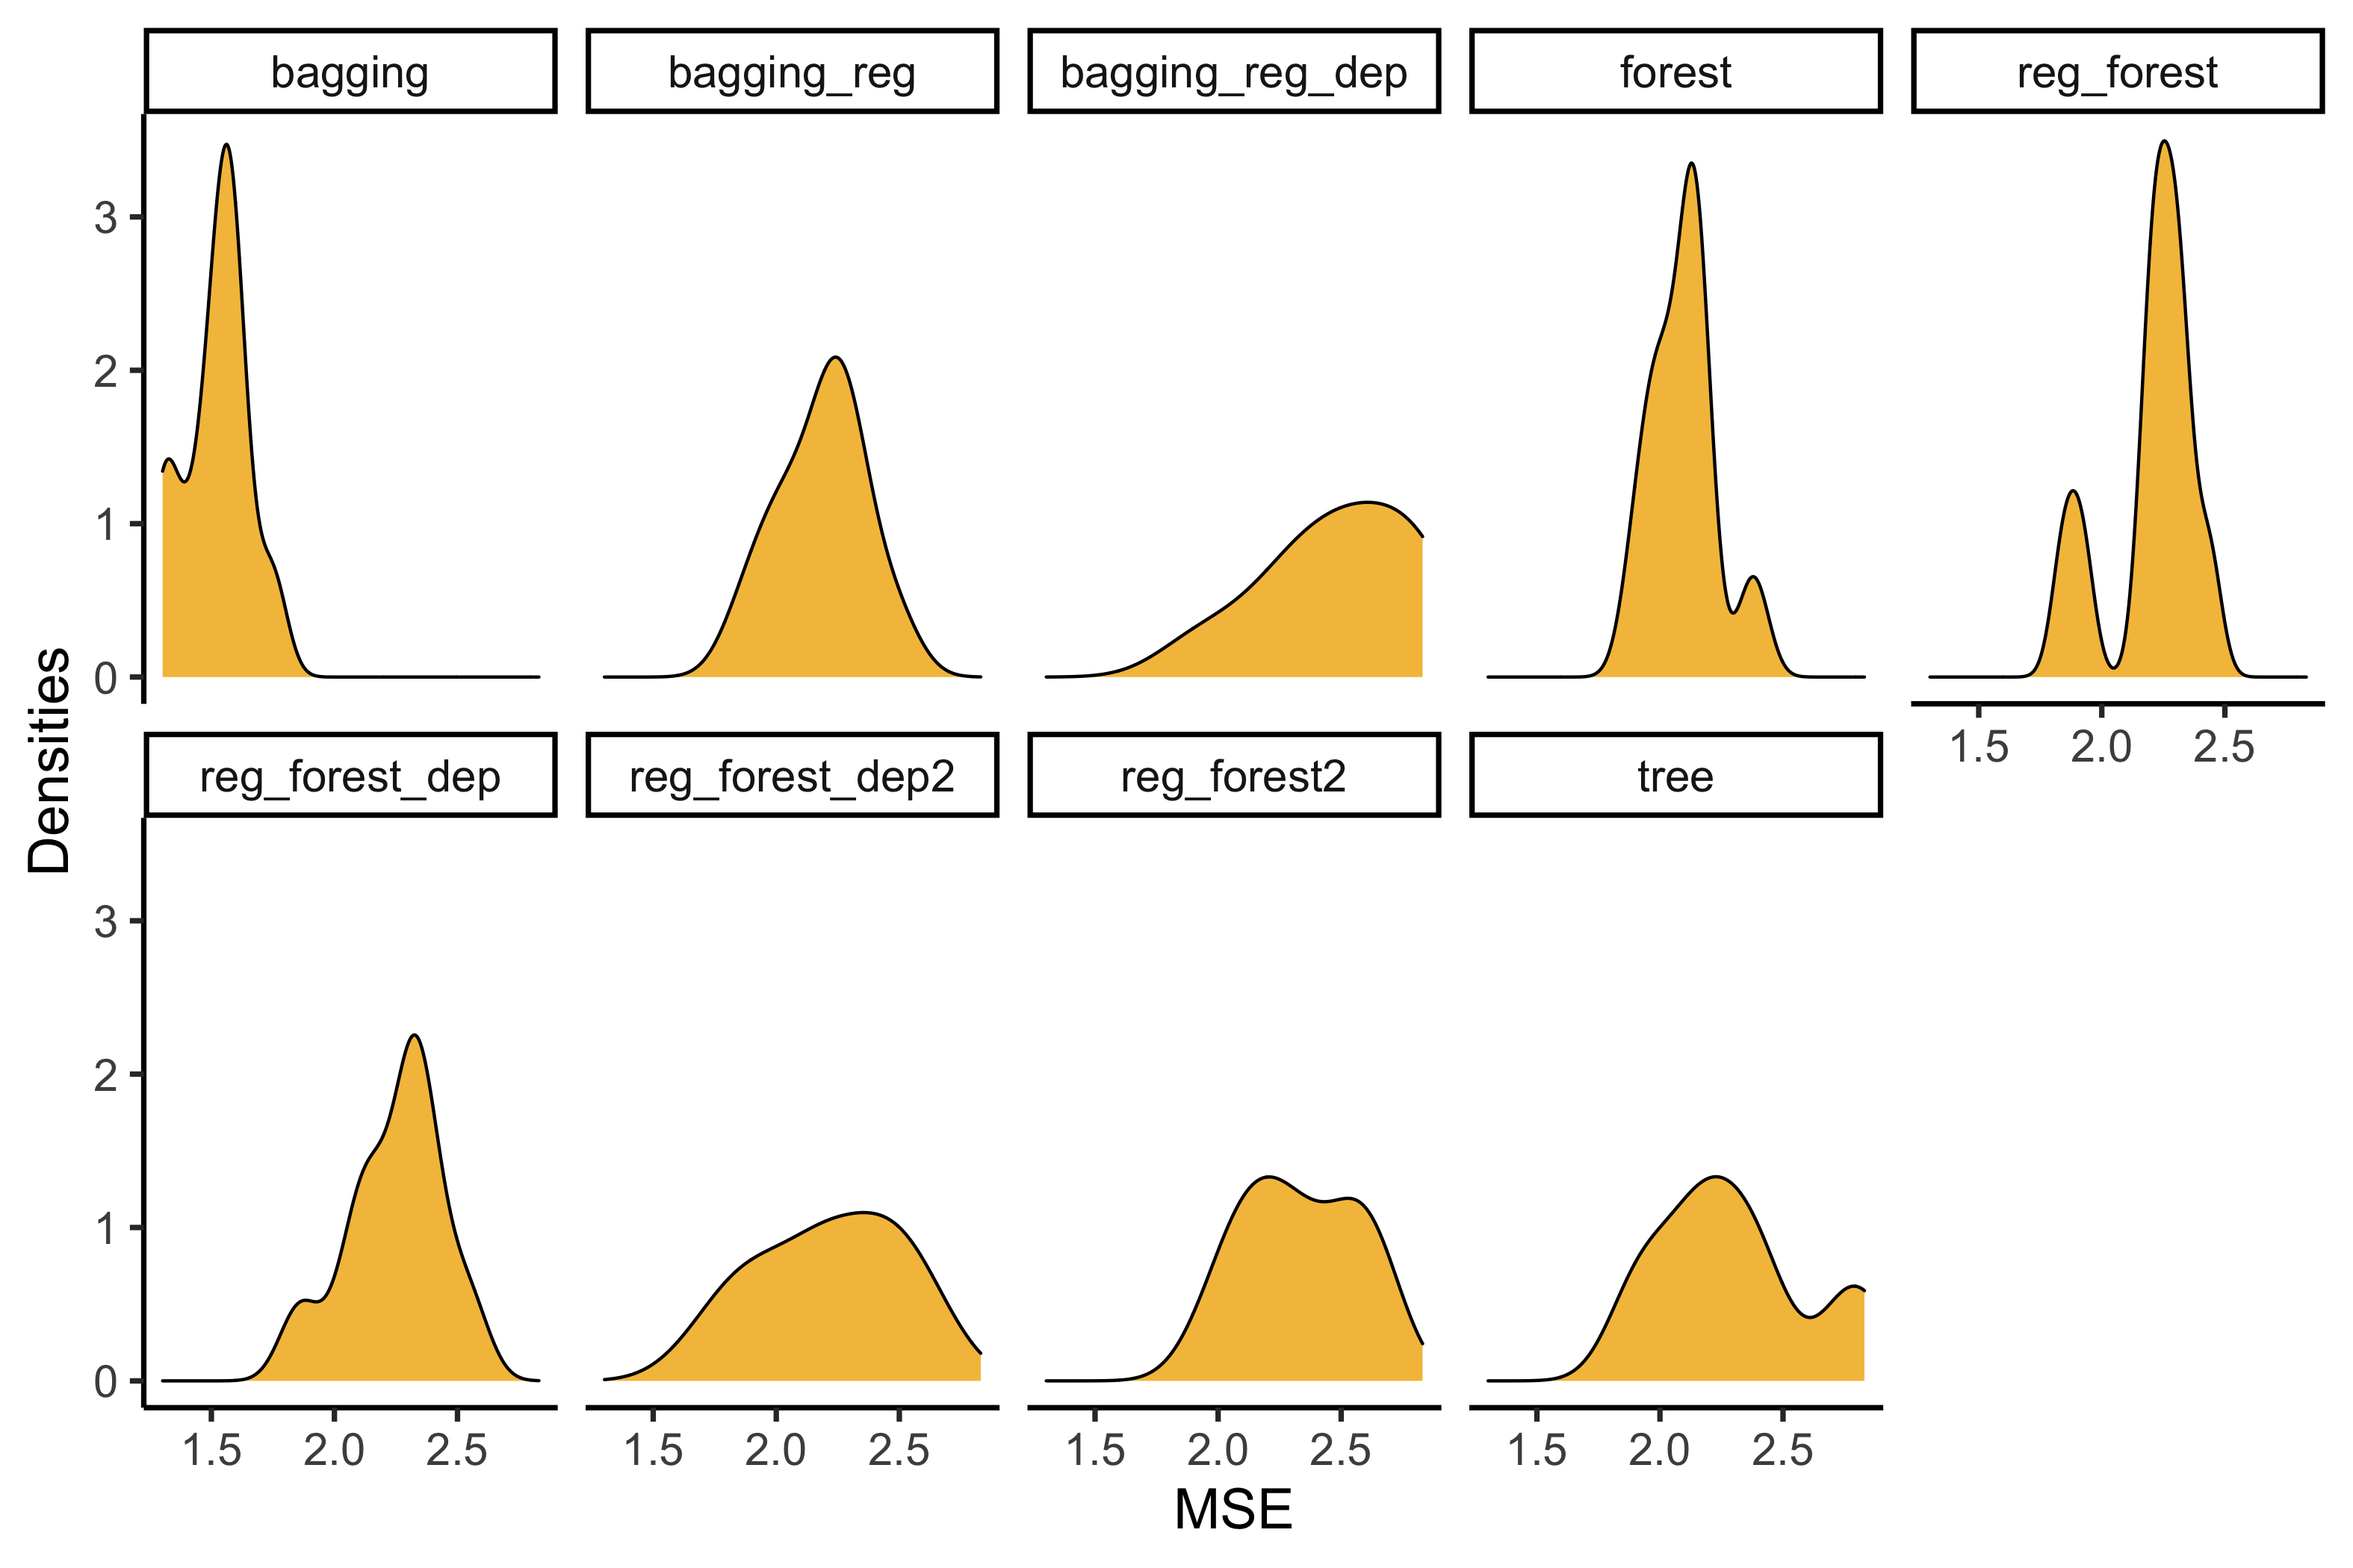
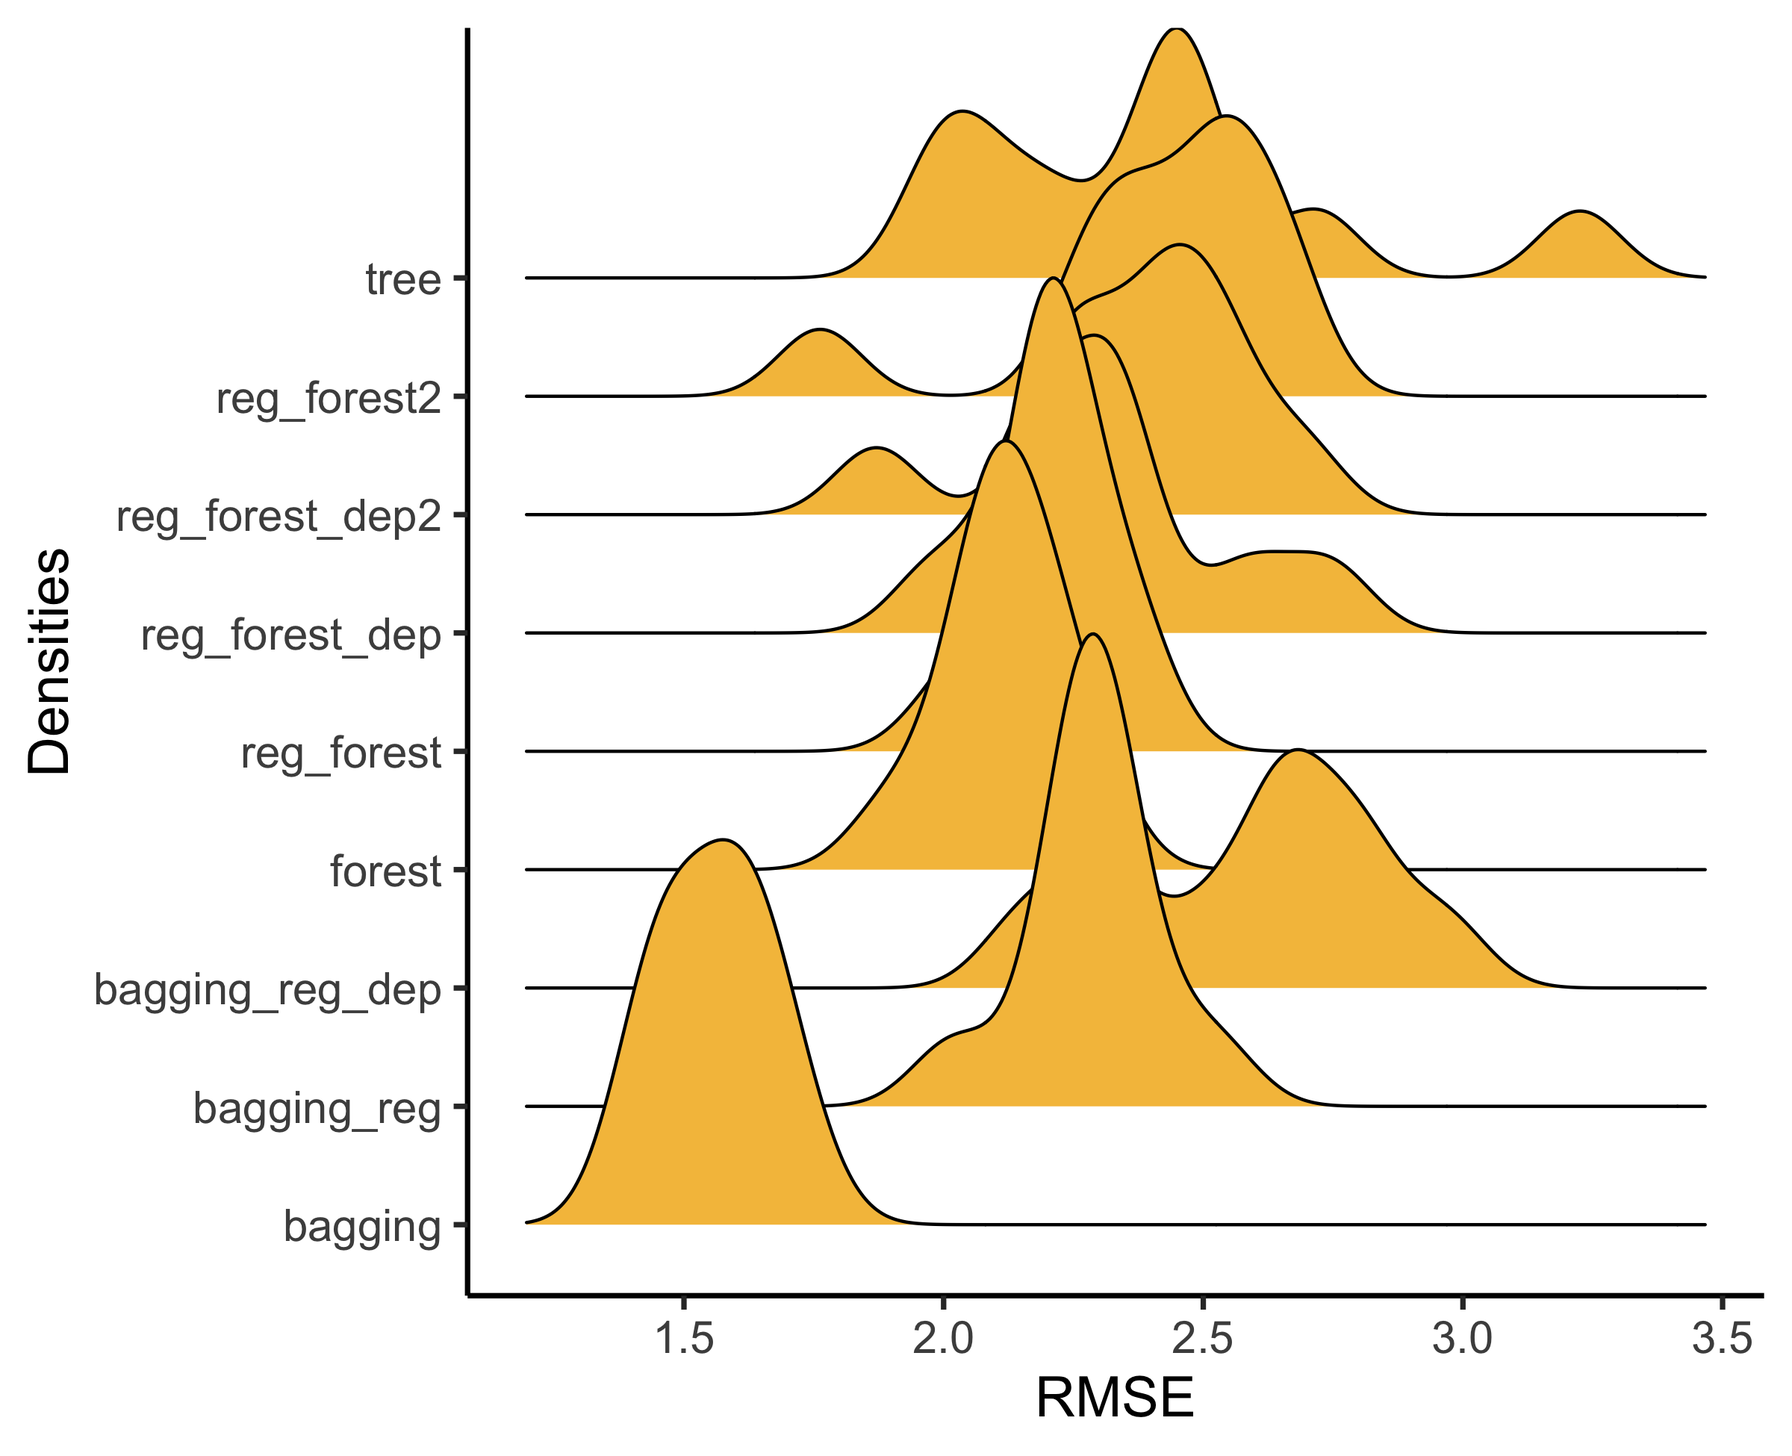
rladies-helsinki talk

Changed region(s): [[0.0, 0.0, 1.0, 0.9846], [0.0312, 0.8615, 0.0625, 0.8923], [0.0312, 0.7692, 0.0625, 0.8]]

diff --git a/slides/rladies-helsinki/talk.html b/slides/rladies-helsinki/talk.html
@@ -87,6 +87,7 @@ class: inverse, middle
 ---
 class: middle
 
+
 # Summary
 
 - Tree-based models
@@ -98,7 +99,13 @@ class: middle
   - Building a modelling function
   - Training all models 
   - Evaluating the models
+  
+#### Find this talk at: http://brunaw.com/slides/rladies-helsinki/talk.html
+
+#### GitHub: https://github.com/brunaw/tidyverse-for-ml
+
 ---
+
 
 # Motivation
 
@@ -167,9 +174,9 @@ the greatest reduction in the variance of `\(Y\)`.
 
 # Gain penalization for tree regularization
 
-- Firstly presented in (Deng and Runger, 2013):
+- Firstly presented in Deng and Runger (2013):
   - The authors **penalise the gain (RSS reduction)** of each 
-  variable, for each tree when building a mdoel
+  variable, for each tree when building a model
 
 - The main idea is to weigh the gain of each variable, with
 
@@ -188,7 +195,7 @@ More details:  *Wundervald, B, A. Parnell, and K. Domijan (2020). “Generalizin
 ---
 ### Modelling: tree-based methods
 
-  - Trees (CART): 1 tree, `\(\texttt{mtry}\)` = all available variables
+  - Trees (CART): 1 tree, `\(\texttt{mtry}\)` = # all available variables
   
   - *Bagging*: average of many trees, `\(\texttt{mtry}\)` = # all available variables
   
@@ -199,7 +206,7 @@ More details:  *Wundervald, B, A. Parnell, and K. Domijan (2020). “Generalizin
   same as above, but with an "extra" penalization when a new variable
  is to be picked in a deep node of a tree:
  
-`$$\begin{equation} Gain_{R}(\mathbf{X}_{i}, t, \mathbb{T}) =  \begin{cases} \lambda_{i}^{d_{\mathbb{T}}} \Delta(i, t), \thinspace i \notin \mathbb{U} \text{ and} \\ \Delta(i, t), \thinspace i \in  \mathbb{U}, \end{cases} \end{equation}$$`
+`$$\begin{equation} Gain_{R}(\mathbf{X}_{i}, t, \mathbb{T}) =  \begin{cases} \lambda_{i}^{d_{\mathbb{T}}} \Delta(i, t), \thinspace i \notin F \text{ and} \\ \Delta(i, t), \thinspace i \in  F, \end{cases} \end{equation}$$`
 
 where `\(d_{\mathbb{T}}\)` is the current depth of the `\(\mathbb{T}\)` tree, 
 `\(\mathbb{T} = (1, \dots, \texttt{ntree})\)`, for the `\(i\)`-th feature.
@@ -227,7 +234,7 @@ for that
 
 - 50 Predictors:
   - Current date  
-  - the 14-day lagged ridership at this and other stations (units: thousands of rides/day)
+  - The 14-day lagged ridership at this and other stations (units: thousands of rides/day)
   - Weather information
   - Sport teams schedules
   - +
@@ -247,7 +254,8 @@ class: middle
 ```{r
 library(tidyverse)
 library(tidymodels)
-library(ranger)
+library(ranger) # for tree-based models
+
 data &lt;- dials::Chicago
 
 data %&gt;%  
@@ -319,13 +327,21 @@ data_tibble &lt;- rep(list(data), 10) %&gt;%
 ```{r
 models &lt;- list(
  tree = list(mtry = ncol(data) - 1, trees = 1, reg.factor = 1, depth = FALSE),
+ 
  bagging = list(mtry = ncol(data) - 1, trees = 100, reg.factor = 1, depth = FALSE), 
+ 
  bagging_reg = list(mtry = ncol(data) - 1, trees = 100, reg.factor = 0.7, depth = FALSE),
+ 
  bagging_reg_dep = list(mtry = ncol(data) - 1, trees = 100, reg.factor = 0.7, depth = TRUE), 
+ 
  forest = list(mtry = sqrt(ncol(data) - 1), trees = 100, reg.factor = 1, depth = FALSE),
+ 
  reg_forest =  list(mtry = (ncol(data) - 1)/2, trees = 100, reg.factor = 0.7, depth = FALSE),
+ 
  reg_forest_dep =  list(mtry = (ncol(data) - 1)/2, trees = 100, reg.factor = 0.7, depth = TRUE),
+ 
  reg_forest2 =  list(mtry = (ncol(data) - 1)/2, trees = 100, reg.factor = 0.2, depth = FALSE), 
+ 
  reg_forest_dep2 = list(mtry = (ncol(data)-1)/2, trees = 100, reg.factor = 0.2, depth = TRUE)) %&gt;% 
  enframe(name = 'model', value = 'parameters')
 ```
@@ -334,7 +350,11 @@ models &lt;- list(
 
 
 
-.pull-left[
+
+---
+
+class: middle
+
 Adding the models to our main `tibble`:
 
 ```{r
@@ -342,16 +362,11 @@ data_tibble &lt;- data_tibble %&gt;%
 *  crossing(models) %&gt;% 
    arrange(model)
 ```
-]
 
-
----
-
-class: middle
 
 # What do we have so far?
 
-A list with:
+A tibble with:
   - All the train and test data
   - Their combinations with the all the model configurations
 
@@ -379,7 +394,7 @@ modelling &lt;- function(train, mtry = NULL, trees = NULL,
                       reg.factor = 1, depth = FALSE, 
                       formula = ridership ~ ., mode = "regression") {
   
-  model_setup &lt;-   parsnip::rand_forest(mode = mode, mtry = mtry, trees = trees) %&gt;% 
+  model_setup &lt;- parsnip::rand_forest(mode = mode, mtry = mtry, trees = trees) %&gt;% 
     parsnip::set_engine("ranger", regularization.factor = reg.factor, 
                                   regularization.usedepth = depth)
 
@@ -422,10 +437,9 @@ modelling &lt;- function(train, mtry = NULL, trees = NULL,
 
 ---
 
-# Step 4. Training all models (70) at once -- might be slow (!)
+# Step 4. Training all models (90) at once -- might be slow (!)
 
 ```{r
-start_time &lt;- Sys.time()
 
 training_models &lt;- data_tibble %&gt;% 
   mutate(
@@ -434,9 +448,6 @@ training_models &lt;- data_tibble %&gt;%
            ~list_modify(.x, train = .y)))  %&gt;% 
   mutate(model_trained = invoke_map(modelling, all_parameters))
 
-end_time &lt;- Sys.time() 
-
-end_time - start_time  # 6.48 mins
 ```
 
 
@@ -454,8 +465,8 @@ end_time - start_time  # 6.48 mins
   - R-squared
   
 ```{r
-mse &lt;- function(model, test, formula = ridership ~ .,
-us_hol = timeDate::listHolidays() %&gt;% str_subset("(^US)|(Easter)")){
+rmse &lt;- function(model, test, formula = ridership ~ .,
+        us_hol = timeDate::listHolidays() %&gt;% str_subset("(^US)|(Easter)")){
   
   rec &lt;- recipe(formula, data = test) %&gt;% 
     step_holiday(date, holidays = us_hol) %&gt;%  # Include US holidays
@@ -481,17 +492,20 @@ n_variables &lt;- function(model){
 
 ```r
 results &lt;- training_models %&gt;% 
-  mutate(mse = map2_dbl(.x = model_trained, .y = map(train_test, testing), mse), 
+  mutate(rmse = map2_dbl(.x = model_trained, .y = map(train_test, testing), rmse), 
     n_variables = map_int(model_trained, n_variables),
     rsquared = map_dbl(model_trained, ~{.x$fit$r.squared})) 
 ```
+
+
+
 
 &lt;table class="table table-condensed table-hover" style="margin-left: auto; margin-right: auto;"&gt;
 &lt;caption&gt;Mean results per model combination&lt;/caption&gt;
  &lt;thead&gt;
   &lt;tr&gt;
    &lt;th style="text-align:left;"&gt; model &lt;/th&gt;
-   &lt;th style="text-align:left;"&gt; mse &lt;/th&gt;
+   &lt;th style="text-align:left;"&gt; rmse &lt;/th&gt;
    &lt;th style="text-align:left;"&gt; n_variables &lt;/th&gt;
    &lt;th style="text-align:left;"&gt; rsquared &lt;/th&gt;
   &lt;/tr&gt;
@@ -499,57 +513,57 @@ results &lt;- training_models %&gt;%
 &lt;tbody&gt;
   &lt;tr&gt;
    &lt;td style="text-align:left;"&gt; bagging &lt;/td&gt;
-   &lt;td style="text-align:left;width: 2cm; "&gt; &lt;span style="display: inline-block; direction: rtl; border-radius: 4px; padding-right: 2px; background-color: lightgreen; width: 60.94%"&gt;1.518&lt;/span&gt; &lt;/td&gt;
-   &lt;td style="text-align:left;"&gt; 71 &lt;/td&gt;
-   &lt;td style="text-align:left;"&gt; &lt;span style="display: inline-block; direction: rtl; border-radius: 4px; padding-right: 2px; background-color: lightgreen; width: 100.00%"&gt;0.941&lt;/span&gt; &lt;/td&gt;
+   &lt;td style="text-align:left;width: 2cm; "&gt; &lt;span style="display: inline-block; direction: rtl; border-radius: 4px; padding-right: 2px; background-color: lightgreen; width: 60.47%"&gt;1.56&lt;/span&gt; &lt;/td&gt;
+   &lt;td style="text-align:left;width: 2cm; "&gt; 71 &lt;/td&gt;
+   &lt;td style="text-align:left;"&gt; &lt;span style="display: inline-block; direction: rtl; border-radius: 4px; padding-right: 2px; background-color: lightgreen; width: 100.00%"&gt;0.94&lt;/span&gt; &lt;/td&gt;
   &lt;/tr&gt;
   &lt;tr&gt;
    &lt;td style="text-align:left;"&gt; bagging_reg &lt;/td&gt;
-   &lt;td style="text-align:left;width: 2cm; "&gt; 2.183 &lt;/td&gt;
-   &lt;td style="text-align:left;"&gt; 13.9 &lt;/td&gt;
-   &lt;td style="text-align:left;"&gt; 0.877 &lt;/td&gt;
+   &lt;td style="text-align:left;width: 2cm; "&gt; 2.29 &lt;/td&gt;
+   &lt;td style="text-align:left;width: 2cm; "&gt; 13.5 &lt;/td&gt;
+   &lt;td style="text-align:left;"&gt; 0.88 &lt;/td&gt;
   &lt;/tr&gt;
   &lt;tr&gt;
    &lt;td style="text-align:left;"&gt; bagging_reg_dep &lt;/td&gt;
-   &lt;td style="text-align:left;width: 2cm; "&gt; 2.491 &lt;/td&gt;
-   &lt;td style="text-align:left;"&gt; &lt;span style="display: inline-block; direction: rtl; border-radius: 4px; padding-right: 2px; background-color: lightgreen; width: 16.48%"&gt;11.7&lt;/span&gt; &lt;/td&gt;
-   &lt;td style="text-align:left;"&gt; 0.842 &lt;/td&gt;
+   &lt;td style="text-align:left;width: 2cm; "&gt; 2.58 &lt;/td&gt;
+   &lt;td style="text-align:left;width: 2cm; "&gt; &lt;span style="display: inline-block; direction: rtl; border-radius: 4px; padding-right: 2px; background-color: lightgreen; width: 16.48%"&gt;11.7&lt;/span&gt; &lt;/td&gt;
+   &lt;td style="text-align:left;"&gt; 0.83 &lt;/td&gt;
   &lt;/tr&gt;
   &lt;tr&gt;
    &lt;td style="text-align:left;"&gt; forest &lt;/td&gt;
-   &lt;td style="text-align:left;width: 2cm; "&gt; 2.097 &lt;/td&gt;
-   &lt;td style="text-align:left;"&gt; 71 &lt;/td&gt;
-   &lt;td style="text-align:left;"&gt; 0.886 &lt;/td&gt;
+   &lt;td style="text-align:left;width: 2cm; "&gt; 2.12 &lt;/td&gt;
+   &lt;td style="text-align:left;width: 2cm; "&gt; 71 &lt;/td&gt;
+   &lt;td style="text-align:left;"&gt; 0.89 &lt;/td&gt;
   &lt;/tr&gt;
   &lt;tr&gt;
    &lt;td style="text-align:left;"&gt; reg_forest &lt;/td&gt;
-   &lt;td style="text-align:left;width: 2cm; "&gt; 2.201 &lt;/td&gt;
-   &lt;td style="text-align:left;"&gt; 26.1 &lt;/td&gt;
-   &lt;td style="text-align:left;"&gt; 0.873 &lt;/td&gt;
+   &lt;td style="text-align:left;width: 2cm; "&gt; 2.22 &lt;/td&gt;
+   &lt;td style="text-align:left;width: 2cm; "&gt; 26.8 &lt;/td&gt;
+   &lt;td style="text-align:left;"&gt; 0.88 &lt;/td&gt;
   &lt;/tr&gt;
   &lt;tr&gt;
    &lt;td style="text-align:left;"&gt; reg_forest_dep &lt;/td&gt;
-   &lt;td style="text-align:left;width: 2cm; "&gt; 2.247 &lt;/td&gt;
-   &lt;td style="text-align:left;"&gt; 25.4 &lt;/td&gt;
+   &lt;td style="text-align:left;width: 2cm; "&gt; 2.31 &lt;/td&gt;
+   &lt;td style="text-align:left;width: 2cm; "&gt; 24.4 &lt;/td&gt;
    &lt;td style="text-align:left;"&gt; 0.87 &lt;/td&gt;
   &lt;/tr&gt;
   &lt;tr&gt;
    &lt;td style="text-align:left;"&gt; reg_forest_dep2 &lt;/td&gt;
-   &lt;td style="text-align:left;width: 2cm; "&gt; 2.214 &lt;/td&gt;
-   &lt;td style="text-align:left;"&gt; 26.1 &lt;/td&gt;
-   &lt;td style="text-align:left;"&gt; 0.87 &lt;/td&gt;
+   &lt;td style="text-align:left;width: 2cm; "&gt; 2.37 &lt;/td&gt;
+   &lt;td style="text-align:left;width: 2cm; "&gt; 25.9 &lt;/td&gt;
+   &lt;td style="text-align:left;"&gt; 0.86 &lt;/td&gt;
   &lt;/tr&gt;
   &lt;tr&gt;
    &lt;td style="text-align:left;"&gt; reg_forest2 &lt;/td&gt;
-   &lt;td style="text-align:left;width: 2cm; "&gt; 2.333 &lt;/td&gt;
-   &lt;td style="text-align:left;"&gt; 24.7 &lt;/td&gt;
-   &lt;td style="text-align:left;"&gt; 0.858 &lt;/td&gt;
+   &lt;td style="text-align:left;width: 2cm; "&gt; 2.41 &lt;/td&gt;
+   &lt;td style="text-align:left;width: 2cm; "&gt; 24.9 &lt;/td&gt;
+   &lt;td style="text-align:left;"&gt; 0.86 &lt;/td&gt;
   &lt;/tr&gt;
   &lt;tr&gt;
    &lt;td style="text-align:left;"&gt; tree &lt;/td&gt;
-   &lt;td style="text-align:left;width: 2cm; "&gt; 2.298 &lt;/td&gt;
-   &lt;td style="text-align:left;"&gt; 63.8 &lt;/td&gt;
-   &lt;td style="text-align:left;"&gt; 0.866 &lt;/td&gt;
+   &lt;td style="text-align:left;width: 2cm; "&gt; 2.41 &lt;/td&gt;
+   &lt;td style="text-align:left;width: 2cm; "&gt; 64.5 &lt;/td&gt;
+   &lt;td style="text-align:left;"&gt; 0.86 &lt;/td&gt;
   &lt;/tr&gt;
 &lt;/tbody&gt;
 &lt;/table&gt;
@@ -557,7 +571,7 @@ results &lt;- training_models %&gt;%
 
 ---
 
-## A closer look at the MSE
+## A closer look at the RMSE
 
 
 
@@ -571,13 +585,13 @@ results &lt;- training_models %&gt;%
 
 ```
 # A tibble: 90 x 10
-  index data  train_test model parameters all_parameters model_trained   mse
+  index data  train_test model parameters all_parameters model_trained  rmse
   &lt;int&gt; &lt;lis&gt; &lt;list&gt;     &lt;chr&gt; &lt;list&gt;     &lt;list&gt;         &lt;list&gt;        &lt;dbl&gt;
-1     1 &lt;tib… &lt;split [4… bagg… &lt;named li… &lt;named list [… &lt;fit[+]&gt;       1.43
-2     2 &lt;tib… &lt;split [4… bagg… &lt;named li… &lt;named list [… &lt;fit[+]&gt;       1.52
-3     3 &lt;tib… &lt;split [4… bagg… &lt;named li… &lt;named list [… &lt;fit[+]&gt;       1.60
-4     4 &lt;tib… &lt;split [4… bagg… &lt;named li… &lt;named list [… &lt;fit[+]&gt;       1.58
-5     5 &lt;tib… &lt;split [4… bagg… &lt;named li… &lt;named list [… &lt;fit[+]&gt;       1.51
+1     1 &lt;tib… &lt;split [4… bagg… &lt;named li… &lt;named list [… &lt;fit[+]&gt;       1.44
+2     2 &lt;tib… &lt;split [4… bagg… &lt;named li… &lt;named list [… &lt;fit[+]&gt;       1.44
+3     3 &lt;tib… &lt;split [4… bagg… &lt;named li… &lt;named list [… &lt;fit[+]&gt;       1.56
+4     4 &lt;tib… &lt;split [4… bagg… &lt;named li… &lt;named list [… &lt;fit[+]&gt;       1.60
+5     5 &lt;tib… &lt;split [4… bagg… &lt;named li… &lt;named list [… &lt;fit[+]&gt;       1.50
 # … with 85 more rows, and 2 more variables: n_variables &lt;int&gt;, rsquared &lt;dbl&gt;
 ```
 
